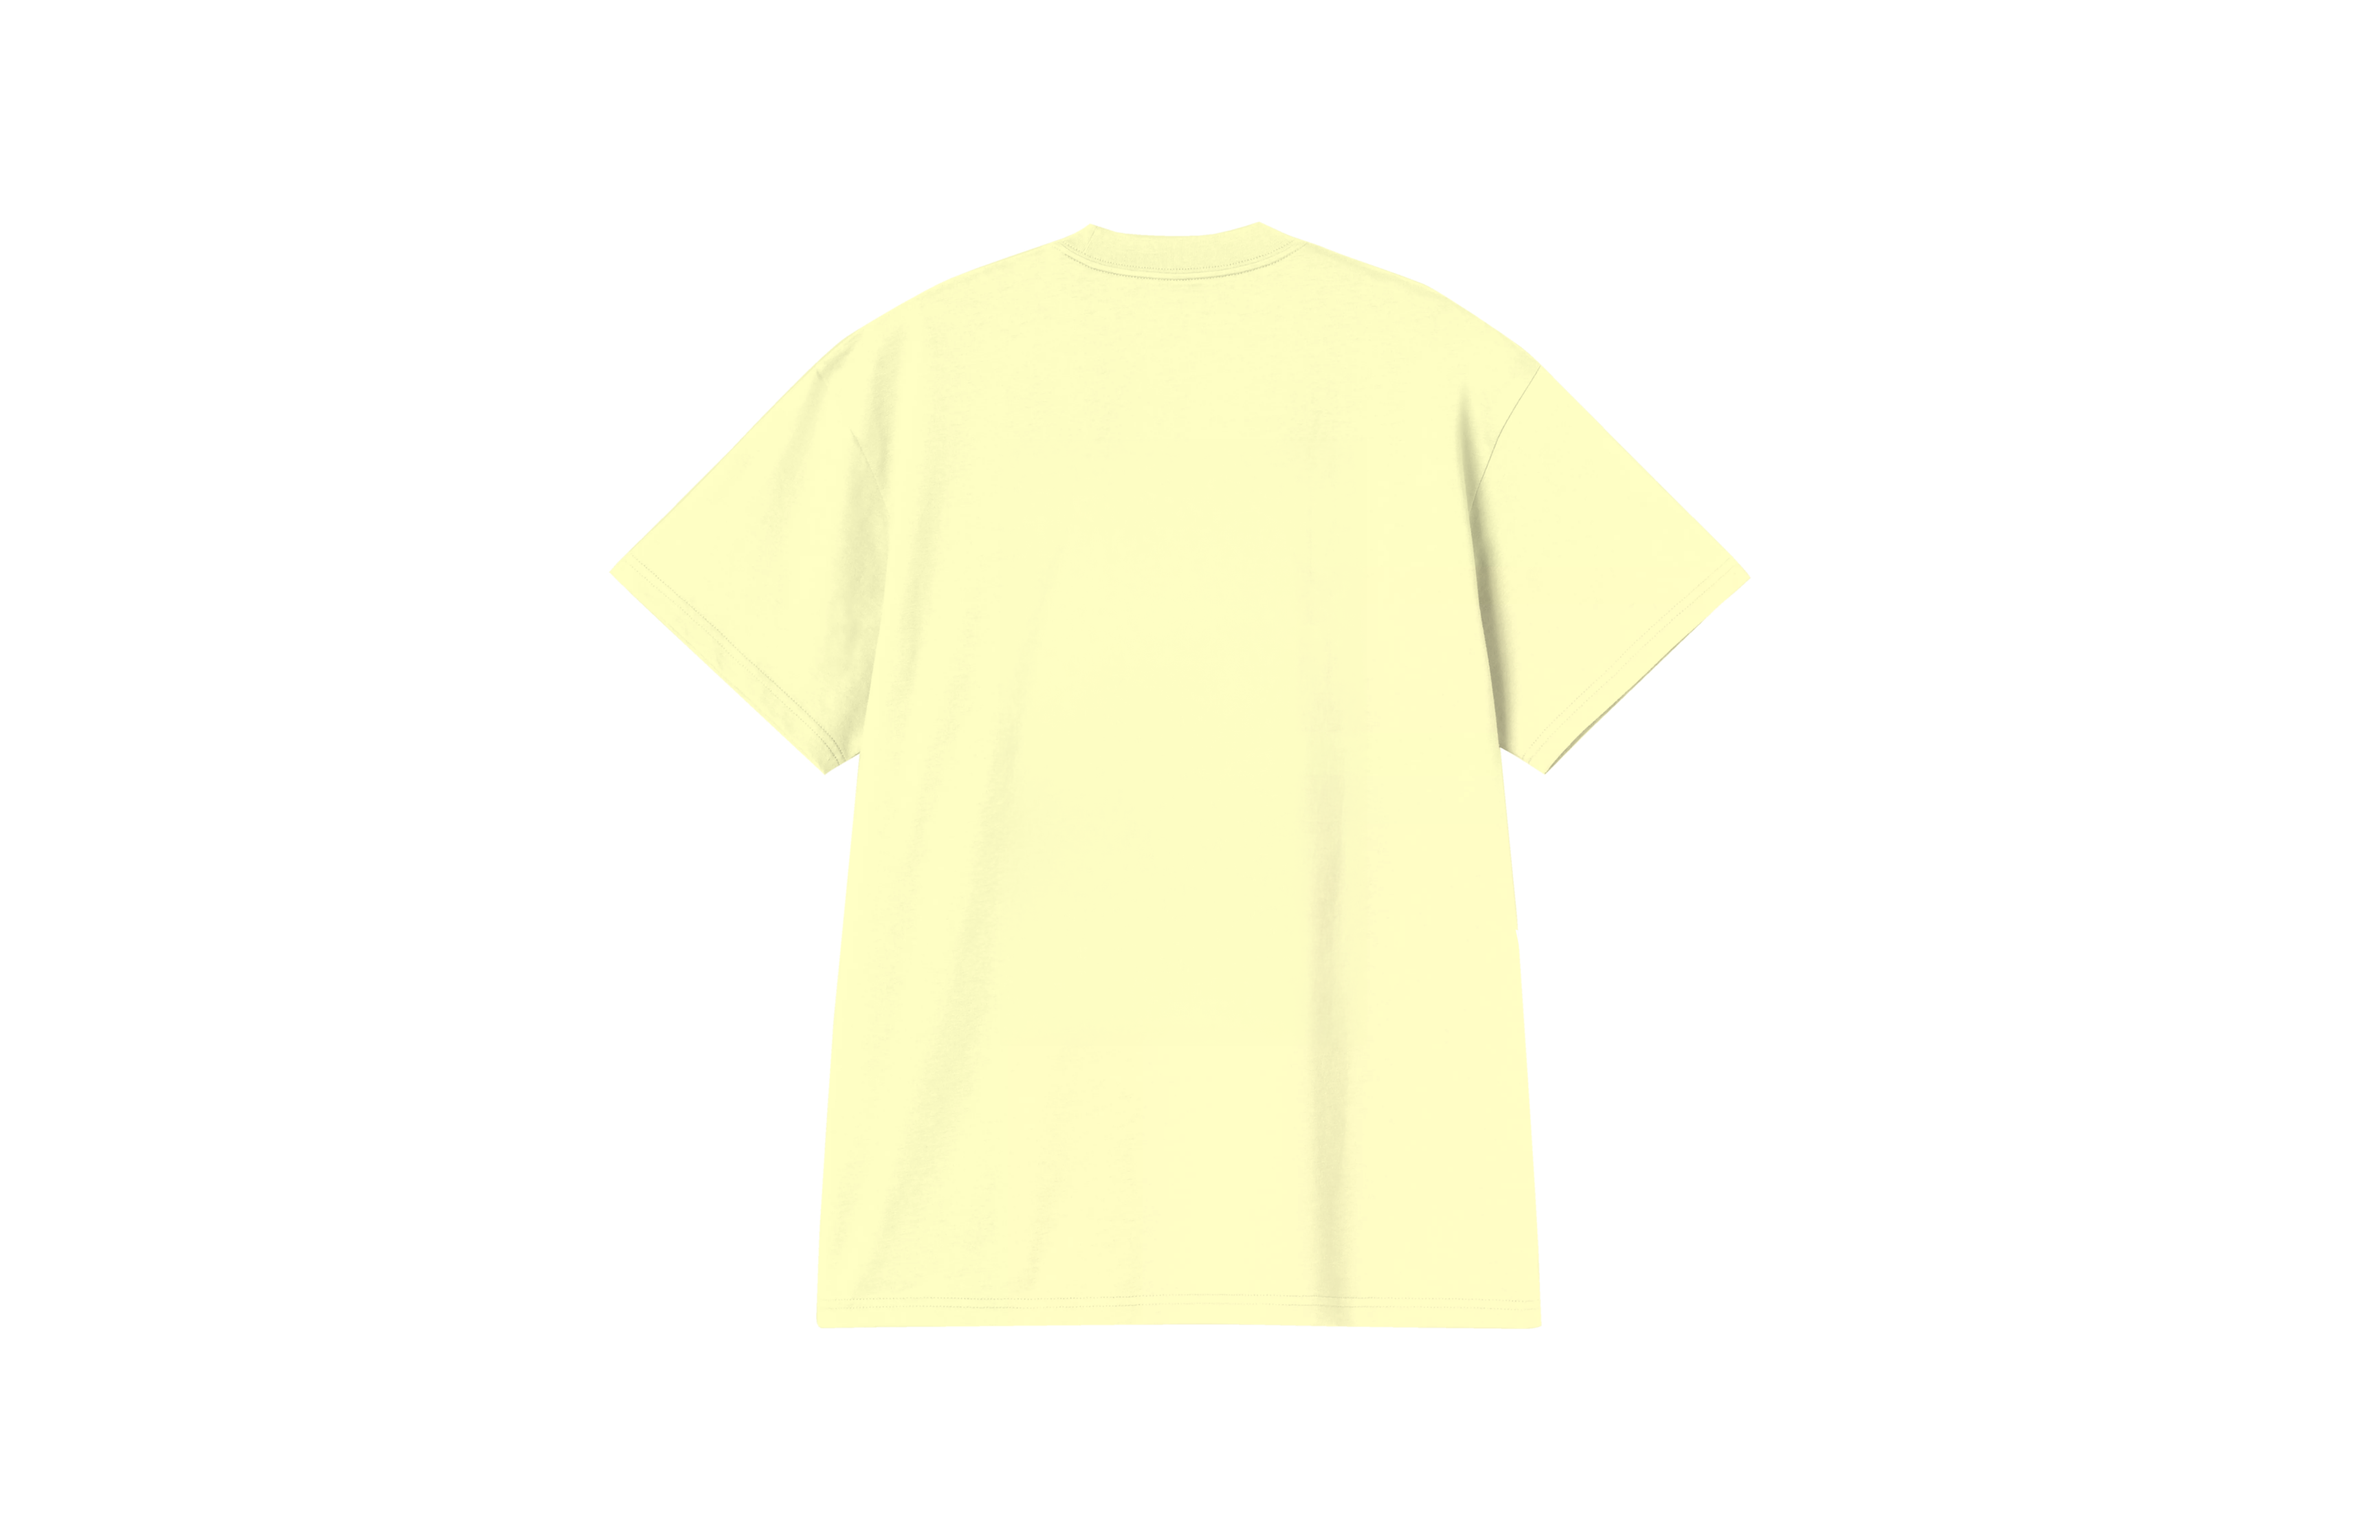
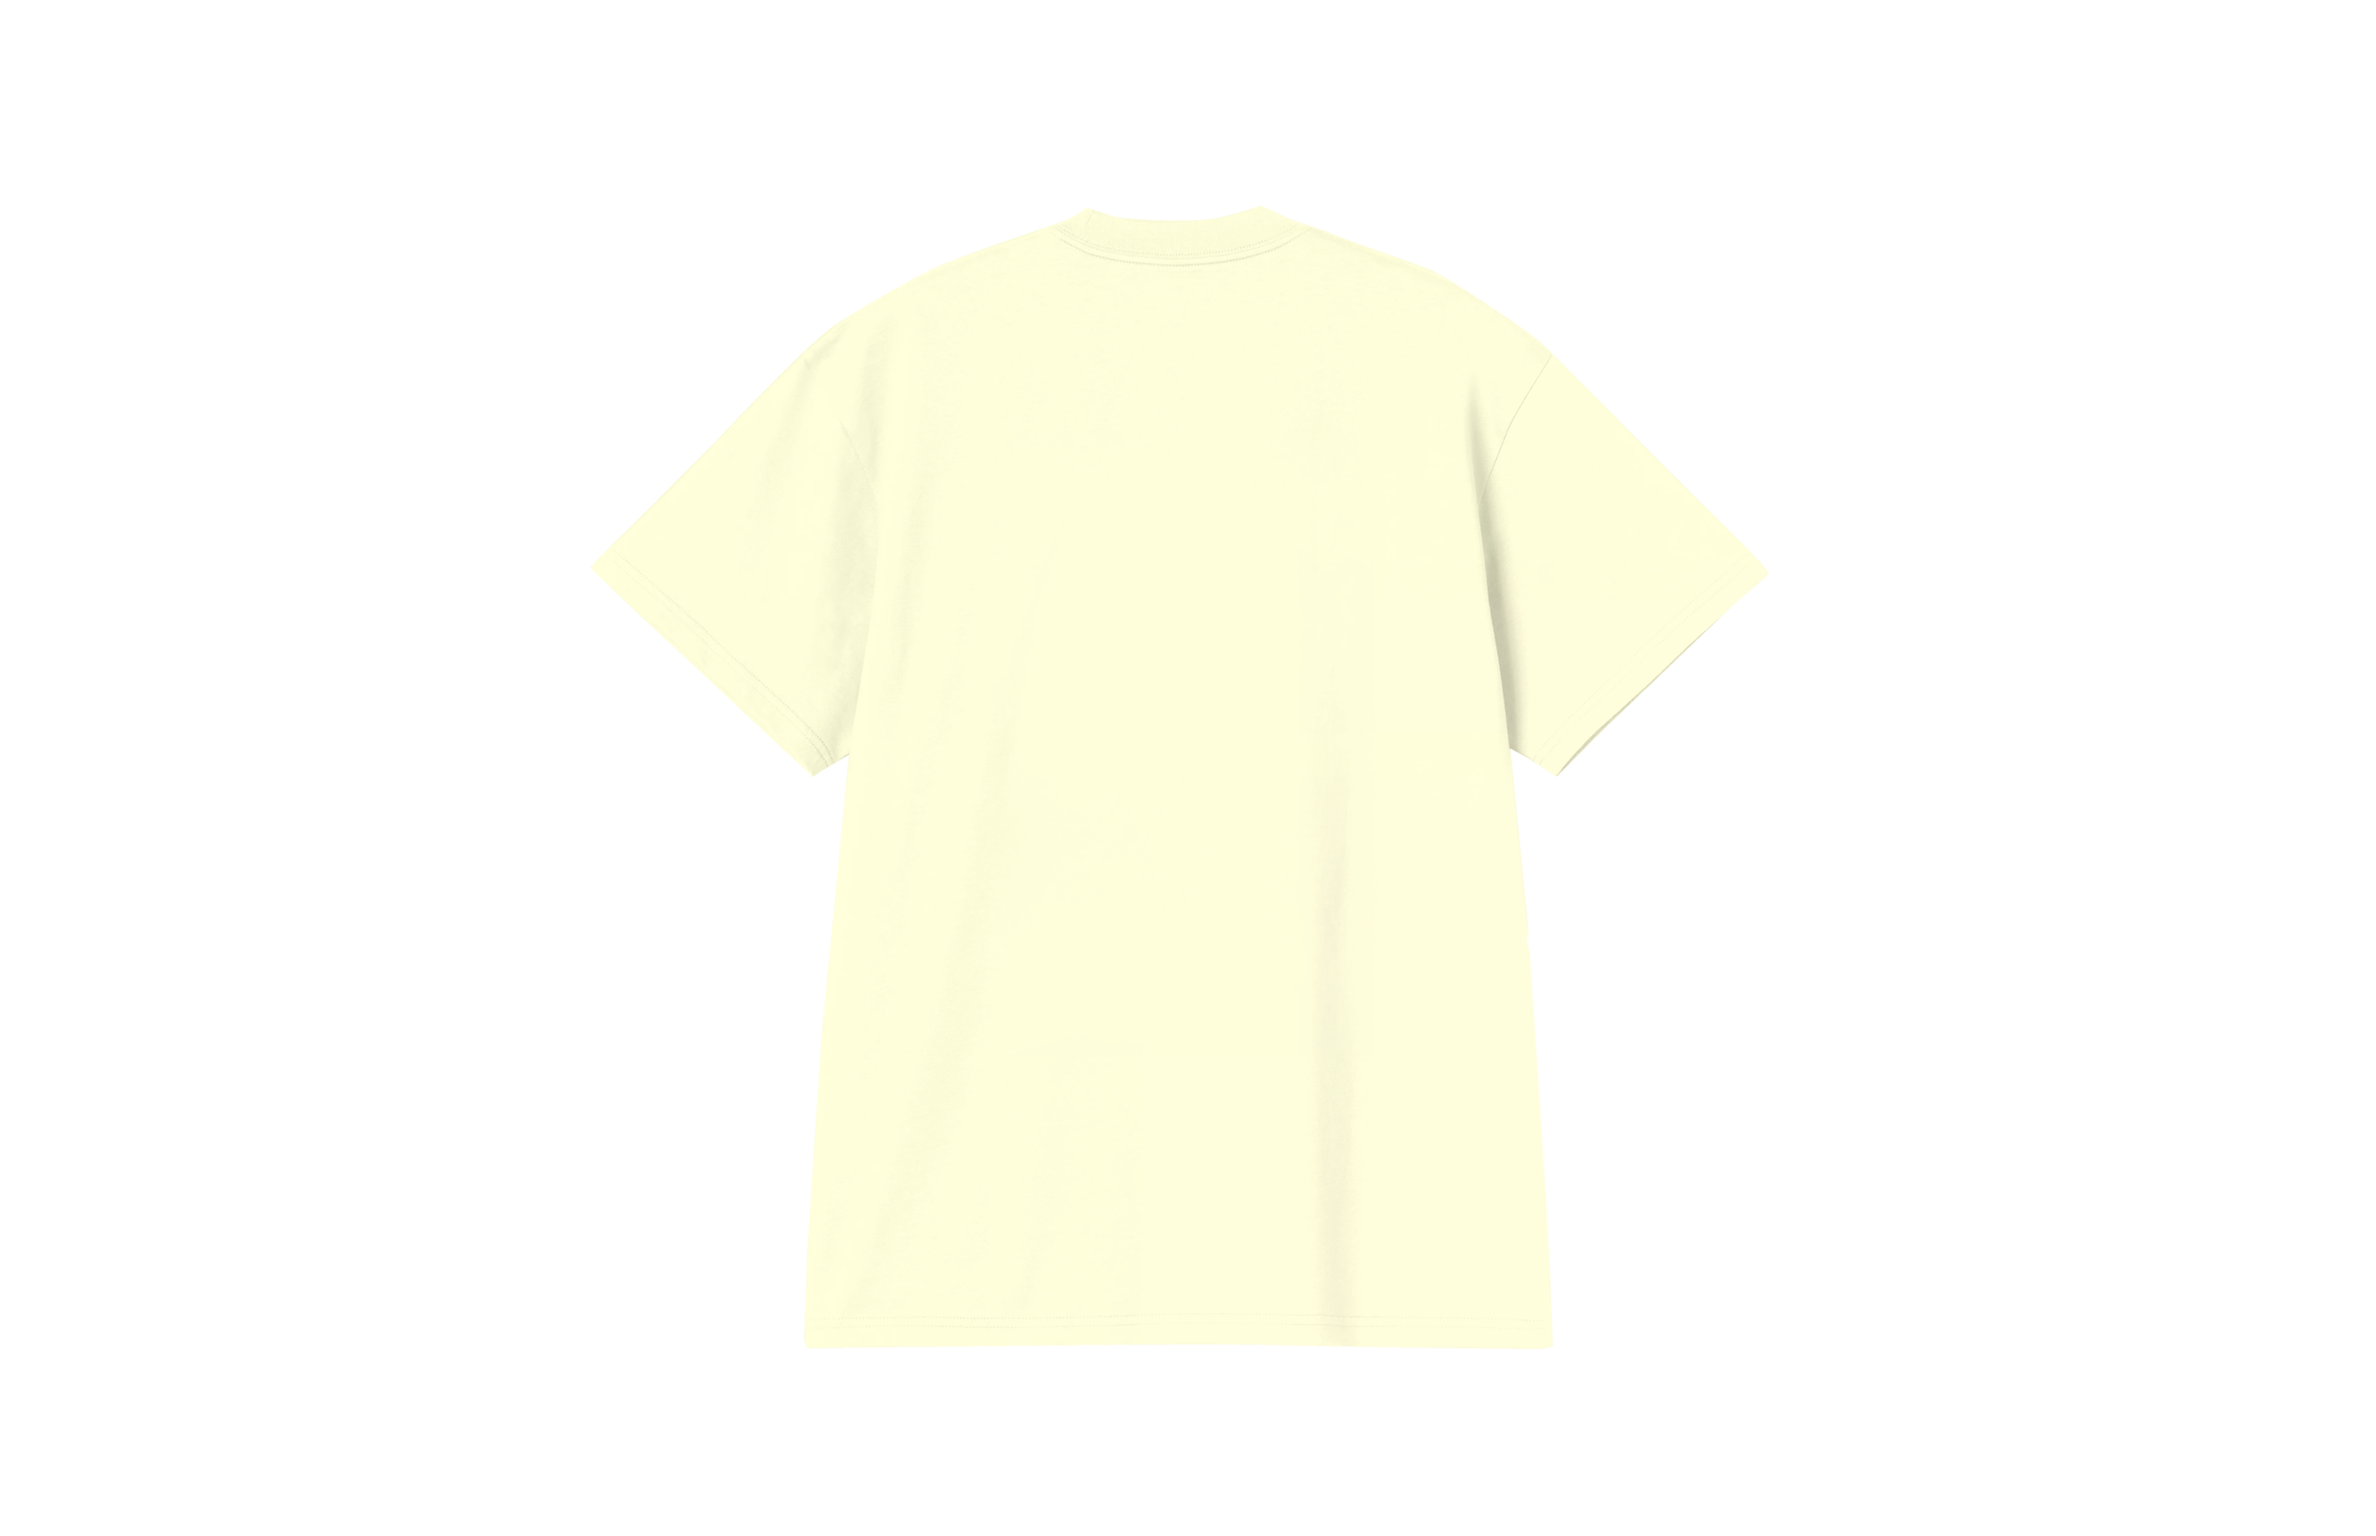
fix: update yellow t-shirt to lighter pastel shade

diff --git a/src/routes/+page.svelte b/src/routes/+page.svelte
@@ -13,7 +13,7 @@
   const shirtPresets = [
     { label: 'Black', value: '#1a1a1a' },
     { label: 'White', value: '#f0f0f0' },
-    { label: 'Yellow', value: '#f5f0a0' },
+    { label: 'Yellow', value: '#faf6d6' },
   ];
 
   const sizeOptions = [
@@ -42,7 +42,7 @@
   let previewExpanded = $state(false);
 
   let isLightShirt = $derived(
-    $designState.shirtColor === '#f0f0f0' || $designState.shirtColor === '#ffffff' || $designState.shirtColor === '#f5f0a0'
+    $designState.shirtColor === '#f0f0f0' || $designState.shirtColor === '#ffffff' || $designState.shirtColor === '#faf6d6'
   );
 
   let previewBg = $derived(isLightShirt ? '#ffffff' : $designState.shirtColor);

diff --git a/src/lib/components/TshirtPreview.svelte b/src/lib/components/TshirtPreview.svelte
@@ -261,7 +261,7 @@
   onpointermove={onContainerPointerMove}
   onpointerleave={onContainerPointerLeave}
 >
-  {#if $designState.shirtColor === '#f5f0a0'}
+  {#if $designState.shirtColor === '#faf6d6'}
     <img class="shirt-img" src="/mockups/yellow_{$shirtSide}.png" alt="Yellow t-shirt {$shirtSide}" draggable="false" />
   {:else if $designState.shirtColor === '#f0f0f0' || $designState.shirtColor === '#ffffff'}
     <img class="shirt-img" src="/mockups/white_{$shirtSide}.png" alt="White t-shirt {$shirtSide}" draggable="false" />
